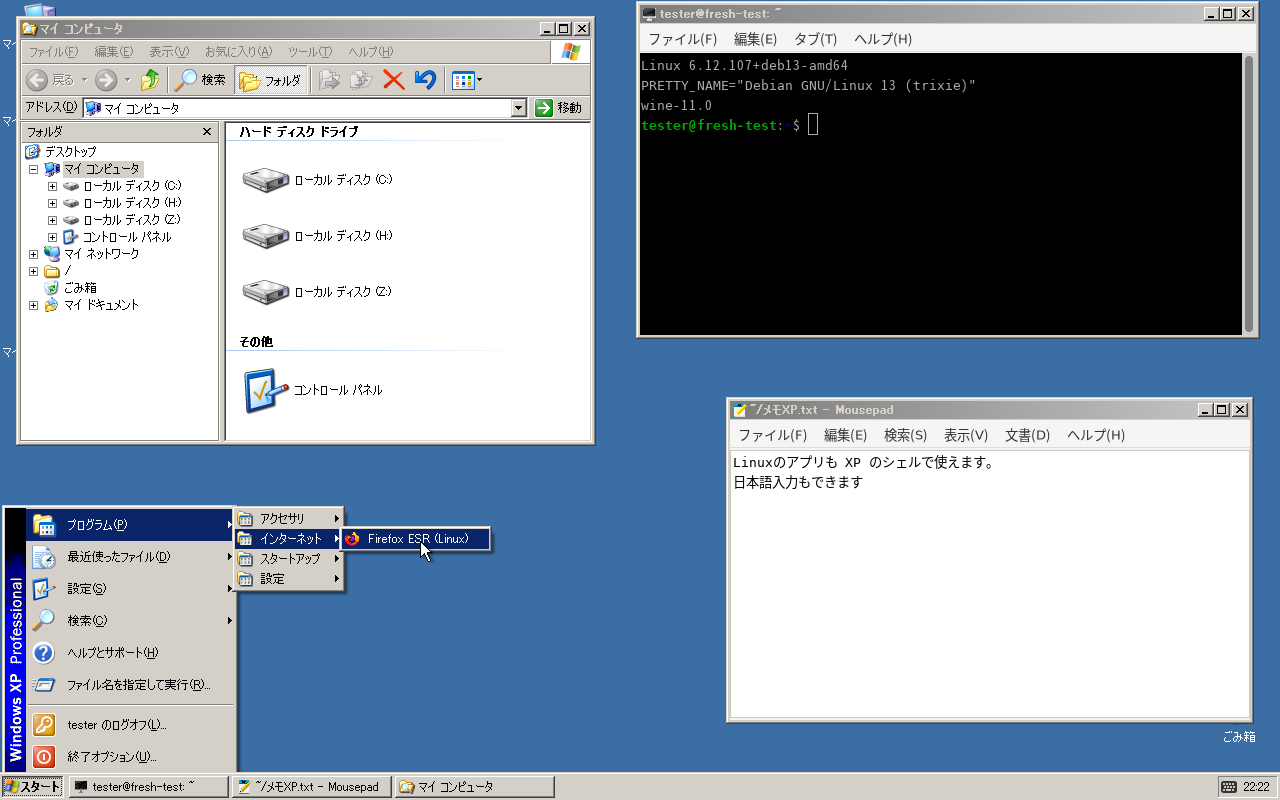
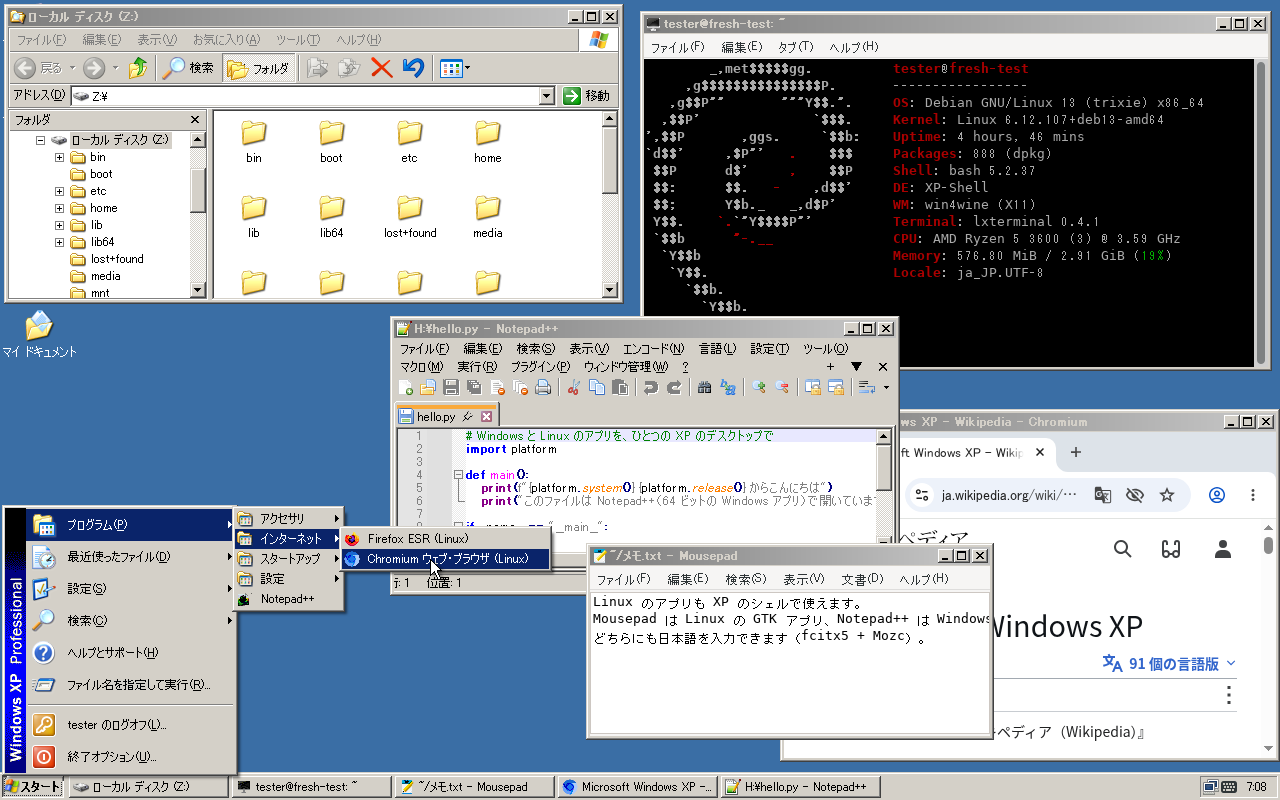
README screenshots: the same desktop in English and Japanese
Both READMEs show one scene per shell (XP Luna, XP classic, ReactOS):
XP's or ReactOS's explorer with the Folders pane on the Linux root (Z:),
fastfetch in a terminal, Chromium, Notepad++ (64-bit Windows) over
Mousepad (Linux) and the Start menu open on Chromium, with Linux's volume
and network icons in the notification area. The English README gets its
own screenshots of English XP (and the English ReactOS shell); the
Japanese ones have Japanese text in Notepad++ and Mousepad.

Taken in the test VM with the frame activation fix (branch
frame-activation), so the windows' captions are inactive as on XP while
the Start menu is open.

Claude-Session: https://claude.ai/code/session_01UswGW2tS4WWzru2Mvg8EqT

diff --git a/.github/readme/README.en.md b/.github/readme/README.en.md
@@ -1,5 +1,5 @@
 <p align="center">
-  <img src="../../docs/images/screenshot.png" alt="win4wine: the Windows XP shell running on Debian 13" width="800" />
+  <img src="../../docs/images/screenshot-en.png" alt="win4wine: the English Windows XP shell with Linux and Windows applications on Debian 13" width="800" />
 </p>
 <p align="center">
   <strong>Your Linux desktop, with the Windows XP shell.</strong>
@@ -79,11 +79,11 @@ ReactOS is free software, so the setup script downloads it from its official rel
 <table>
   <tr>
     <td align="center" width="50%">
-      <img src="../../docs/images/screenshot-classic.png" alt="The XP shell with the classic theme and Linux applications" width="400" /><br />
+      <img src="../../docs/images/screenshot-classic-en.png" alt="The XP shell with the classic theme and Linux applications" width="400" /><br />
       XP's classic theme (<code>--theme classic</code>)
     </td>
     <td align="center" width="50%">
-      <img src="../../docs/images/screenshot-reactos.png" alt="The ReactOS shell and Linux applications" width="400" /><br />
+      <img src="../../docs/images/screenshot-reactos-en.png" alt="The ReactOS shell and Linux applications" width="400" /><br />
       The ReactOS shell (<code>--shell reactos</code>; no XP ISO needed)
     </td>
   </tr>

diff --git a/README.md b/README.md
@@ -1,5 +1,5 @@
 <p align="center">
-  <img src="docs/images/screenshot.png" alt="win4wine: Debian 13 の上で動く Windows XP のシェル" width="800" />
+  <img src="docs/images/screenshot.png" alt="win4wine: Debian 13 の上で動く Windows XP のシェルと、Linux と Windows のアプリ" width="800" />
 </p>
 <p align="center">
   <strong>Linux のデスクトップを、Windows XP のシェルで。</strong>
